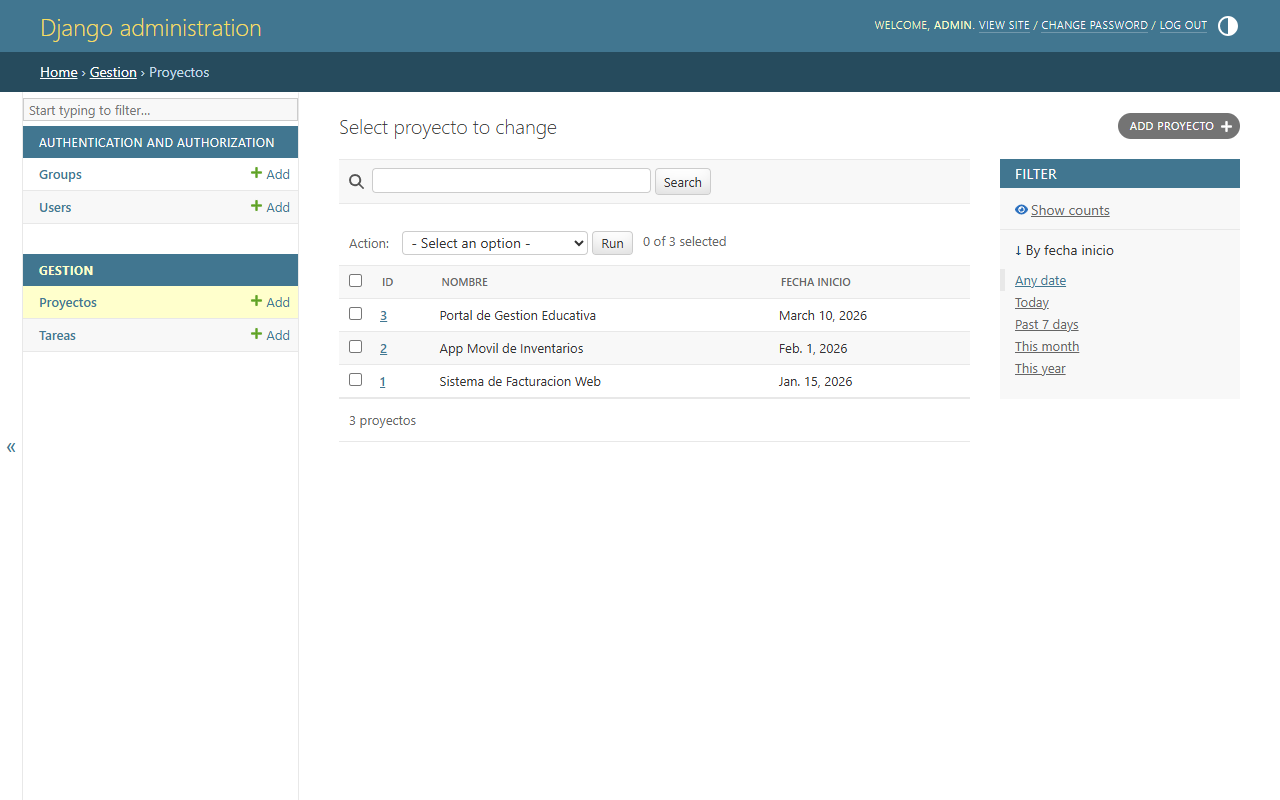
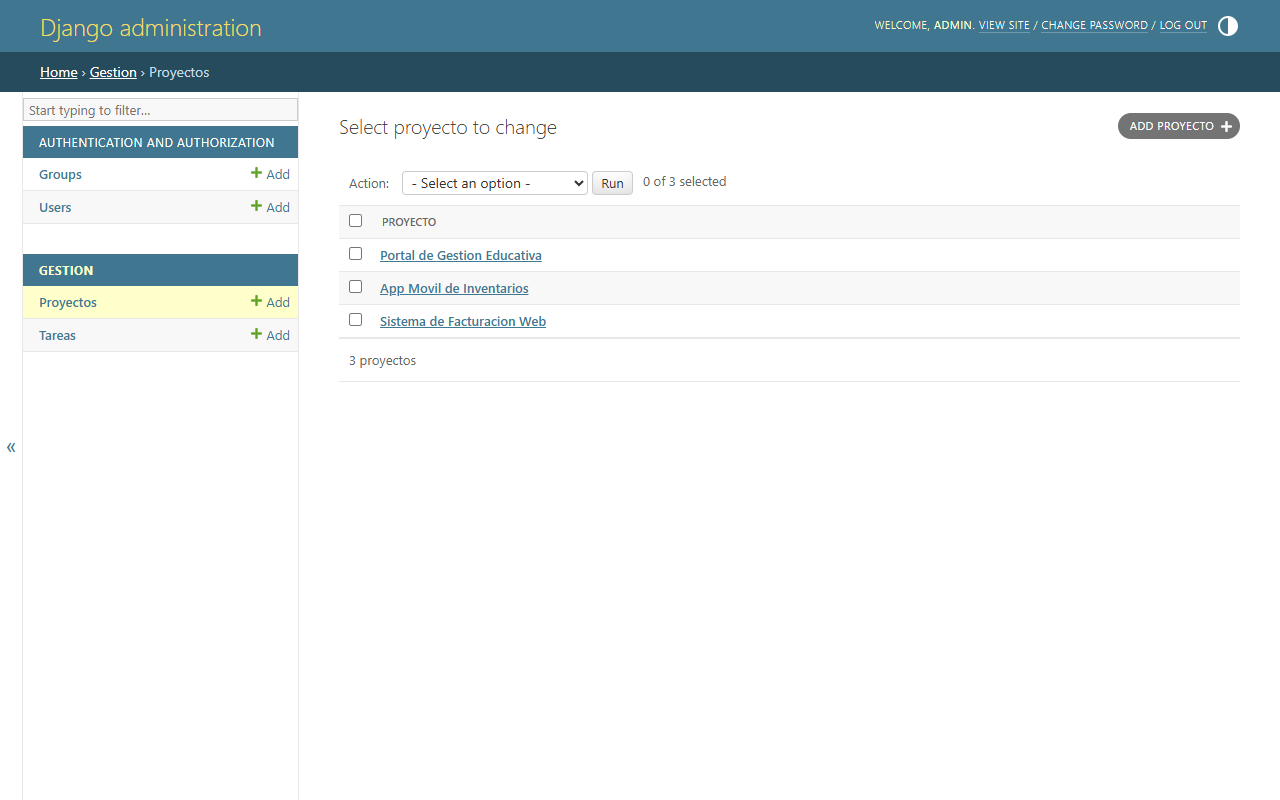
Codigo limpio sin comentarios segun requerimientos del parcial

diff --git a/gestion/admin.py b/gestion/admin.py
@@ -1,14 +1,5 @@
 from django.contrib import admin
 from .models import Proyecto, Tarea
 
-@admin.register(Proyecto)
-class ProyectoAdmin(admin.ModelAdmin):
-    list_display = ('id', 'nombre', 'fecha_inicio')
-    search_fields = ('nombre',)
-    list_filter = ('fecha_inicio',)
-
-@admin.register(Tarea)
-class TareaAdmin(admin.ModelAdmin):
-    list_display = ('id', 'titulo', 'proyecto', 'completada')
-    list_filter = ('completada', 'proyecto')
-    search_fields = ('titulo',)
+admin.site.register(Proyecto)
+admin.site.register(Tarea)

diff --git a/gestion/models.py b/gestion/models.py
@@ -8,11 +8,10 @@ class Proyecto(models.Model):
     def __str__(self):
         return self.nombre
 
-
 class Tarea(models.Model):
     titulo = models.CharField(max_length=100)
     completada = models.BooleanField(default=False)
-    proyecto = models.ForeignKey(Proyecto, on_delete=models.CASCADE, related_name='tareas')
+    proyecto = models.ForeignKey(Proyecto, on_delete=models.CASCADE)
 
     def __str__(self):
         return self.titulo
